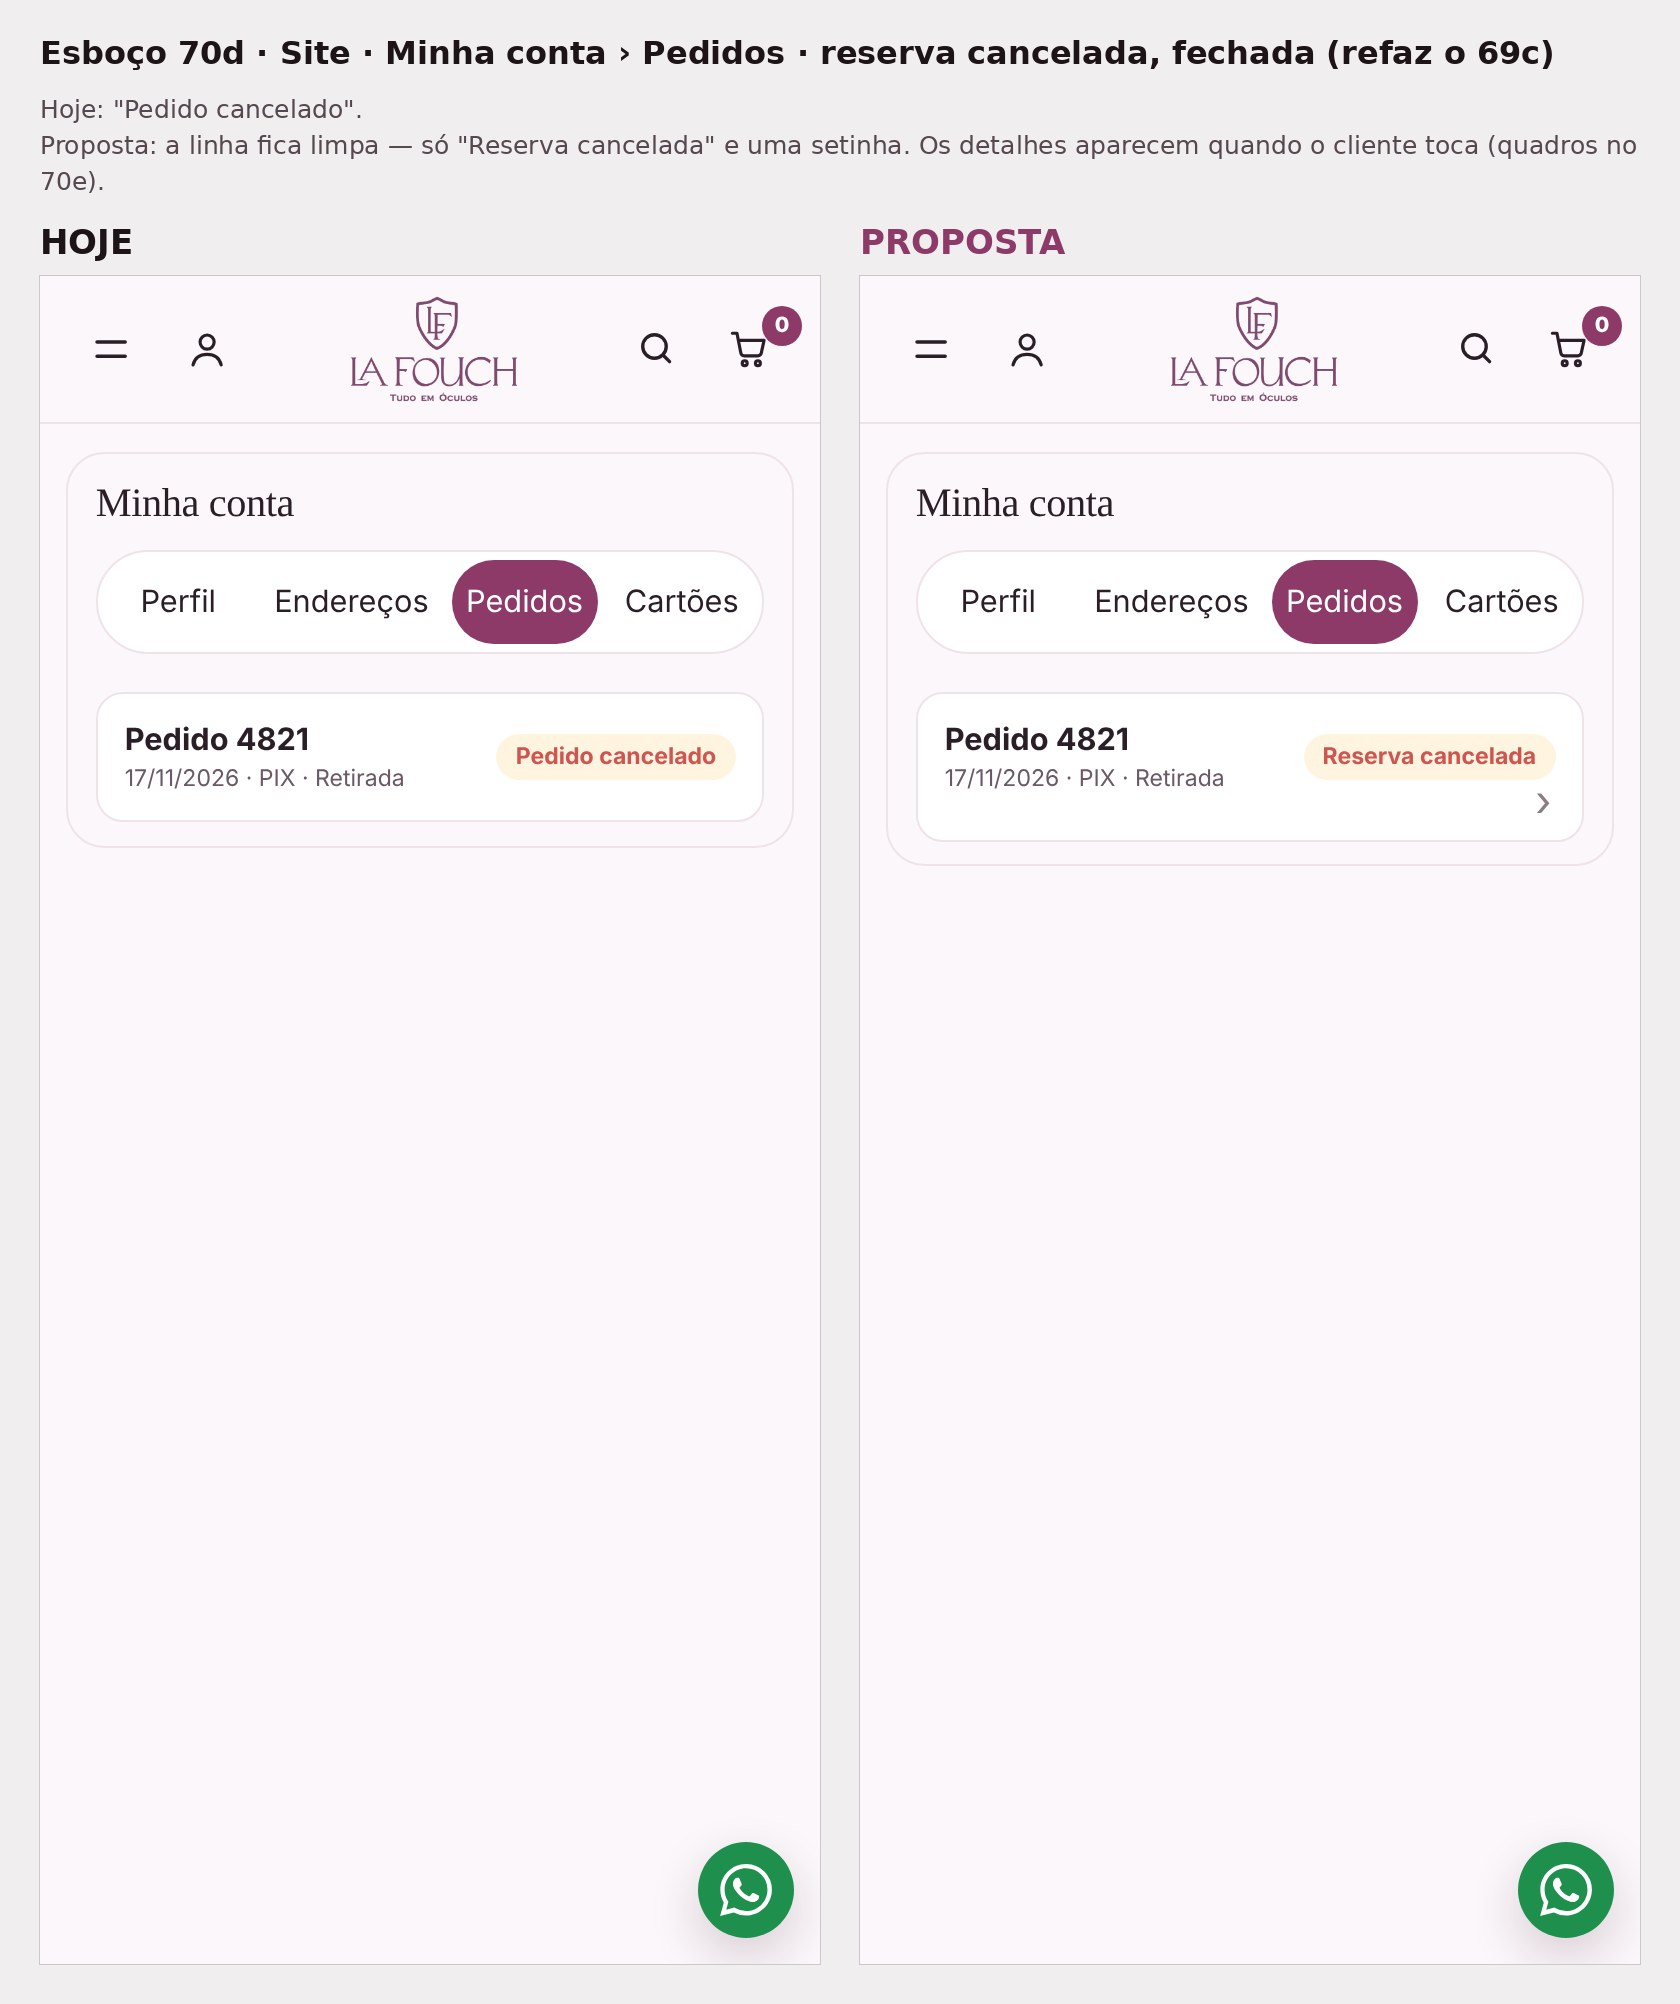
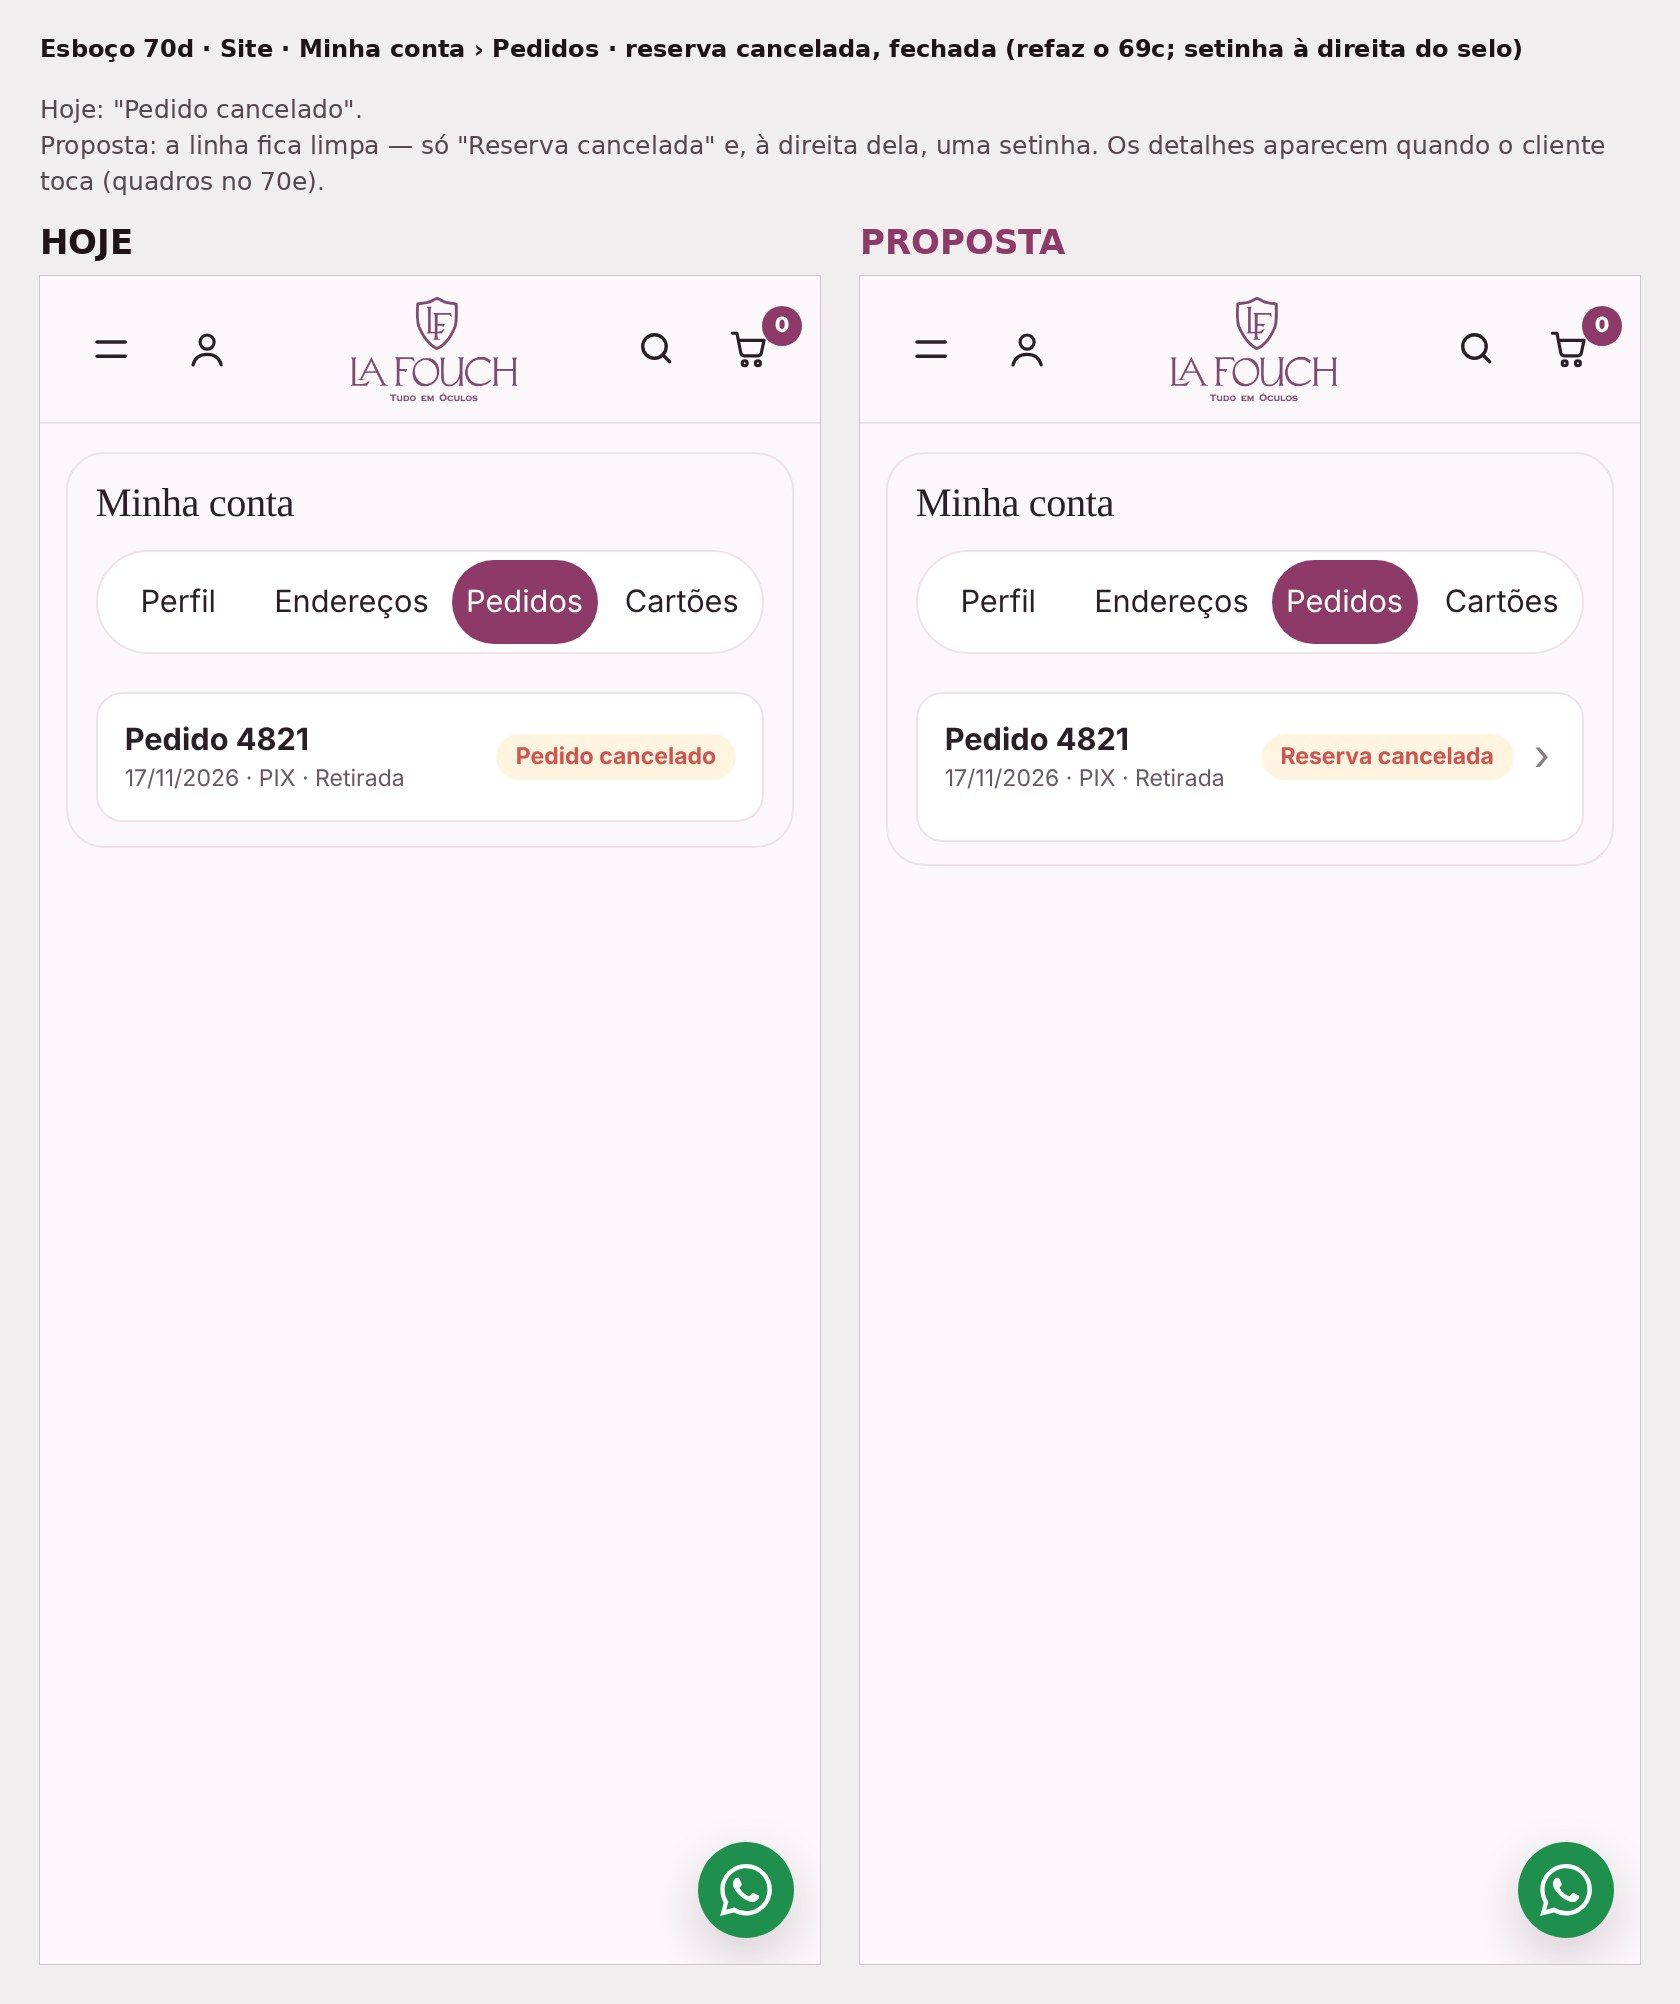
Lista viva: 70a–70c aprovados; 70d/70e com a setinha à direita do selo
Claude-Session: https://claude.ai/code/session_01Vj5GPR2QjandaFr6ascRKC

diff --git a/work/s403/esb6.py b/work/s403/esb6.py
@@ -1,0 +1,47 @@
+# S403 · 70d/70e refeitos (17/11 11:03: setinha à direita do selo) — base: esboços 70a–70e (pedido do dono 17/11 10:57): nome embaixo de "Minha conta" para todos; menu do VIP sem perder "Meus pedidos";
+# reserva do VIP sem a linha que tira a atenção; reserva cancelada que abre para baixo (quadros da animação). Nada implementado.
+E=open('esb2.py').read();exec(E[:E.index('with sync_'+'playwright() as pw')])
+from PIL import Image,ImageDraw
+NOME="""(a)=>{const h=[...document.querySelectorAll('#layer h1,#layer h2,#layer h3')].find(e=>/Minha conta/.test(e.textContent));const p=document.createElement('p');p.style.cssText='margin:-4px 0 14px;font:500 14px Inter,system-ui,sans-serif;color:#6b5f66';p.innerHTML=a[0]+(a[1]?'<span style="color:#a9854a;margin:0 6px">·</span><span style="color:#8a6a33;font-weight:600">✦ Cliente VIP</span>':'');const par=h.parentNode;if(getComputedStyle(par).display.includes('flex'))par.parentNode.insertBefore(p,par.nextSibling);else h.parentNode.insertBefore(p,h.nextSibling)}"""
+COMUM={'ok':True,'guardados':0,'indicacoes':0,'nome':'María González','cupons':[{'cod':'LF-7K2M','tipo':'px','pct':10,'estado':'ok','fim':1805000000000,'usado':False,'nome':'María González','max':1}]}
+ABRE="()=>{document.querySelector('.top .ib').click()}"
+MV="""()=>{const v=document.getElementById('dav');v.style.boxShadow='0 0 0 2px #fbf7fa,0 0 0 3.5px #b8935a';document.getElementById('dacn').innerHTML='Olá, María <em style="display:inline!important;font:600 13px Inter,system-ui,sans-serif;font-style:normal;color:#8a6a33;margin-left:6px;vertical-align:1px">✦ Cliente VIP</em>'}"""
+R3="""()=>{const c=document.getElementById('cdx');c.innerHTML='<span><em style="font-style:normal;color:#a9854a;margin-right:6px">✦</em>Reserva VIP até</span><span class="zk"><b>13:40</b></span>';const f=c.nextElementSibling;if(f&&f.classList.contains('zf'))f.remove()}"""
+CAN="""(k)=>{const e=document.querySelector('[data-id=kitped1]');const w=document.createTreeWalker(e,NodeFilter.SHOW_TEXT);let n;while(n=w.nextNode()){if(/Pedido cancelado/.test(n.nodeValue))n.nodeValue=n.nodeValue.replace('Pedido cancelado','Reserva cancelada')}
+ e.style.flexWrap='wrap';e.style.position='relative';const d=document.createElement('div');d.style.cssText='flex-basis:100%;overflow:hidden';
+ d.innerHTML='<div style="border-top:1px solid #eee6ea;margin-top:12px;padding-top:10px;font:13.5px/1.55 Inter,system-ui,sans-serif;color:#6b5f66">A reserva terminou antes do pagamento. Nada foi cobrado e as peças voltaram para o site.<div style="margin-top:8px"><a href="#" style="display:inline-flex;align-items:center;min-height:44px;color:#8d3a69;font-weight:600;text-decoration:underline">Ver as peças ›</a></div></div>';
+ e.appendChild(d);const H=d.scrollHeight;const ez=t=>1-Math.pow(1-t,3);d.style.height=(H*ez(k))+'px';d.firstChild.style.opacity=Math.max(0,(k-.25)/.75);d.firstChild.style.transform='translateY('+(-8*(1-ez(k)))+'px)';
+ let pl=null;const w2=document.createTreeWalker(e,NodeFilter.SHOW_TEXT);while(n=w2.nextNode()){if(/Reserva cancelada/.test(n.nodeValue)){pl=n.parentNode;break}}
+ const wr=document.createElement('span');wr.style.cssText='display:inline-flex;align-items:center;gap:8px;flex:none';pl.parentNode.insertBefore(wr,pl);wr.appendChild(pl);
+ const ch=document.createElement('span');ch.textContent='›';ch.style.cssText='display:inline-block;width:14px;text-align:center;font:22px/1 Inter,system-ui,sans-serif;color:#8a7d84;transform:rotate('+(90*ez(k))+'deg)';wr.appendChild(ch)}"""
+def par2(nome,abre,depois,H=844,prep=None):
+    res=[]
+    for k in (0,1):
+        b,pg,w=abre();pg.add_style_tag(content=NOAN+CSS);w(300)
+        if prep: pg.evaluate(prep);w(700)
+        if k:
+            for d in depois: pg.evaluate(d[0],d[1]) if isinstance(d,tuple) else pg.evaluate(d);w(400)
+        pg.set_viewport_size({'width':390,'height':H});w(400);res.append(comum.olho(pg));pg.screenshot(path=T+nome+('_p' if k else '_h')+'.png');b.close()
+    print(nome,'falhas novas:',sorted(res[1]-res[0])[:4])
+def quadros(pw,ks):
+    fs=[]
+    for i,k in enumerate(ks):
+        b,pg,w=pago.abre(pw,'pedidos','cancelado');pg.add_style_tag(content=NOAN+CSS);w(300);pg.evaluate(CAN,k);w(300)
+        r=pg.evaluate("()=>{const e=document.querySelector('[data-id=kitped1]').getBoundingClientRect();return [e.left,e.top,e.width,e.height]}")
+        f=T+'q%d.png'%i;pg.screenshot(path=f,clip={'x':0,'y':r[1]-14,'width':390,'height':240});fs.append(f)
+        if k==1: o=comum.olho(pg)
+        if k==0: o0=comum.olho(pg)
+        b.close()
+    print('quadros falhas novas (aberto vs fechado):',sorted(o-o0)[:4]);return fs
+with sync_playwright() as pw:
+    par2('kc',lambda:pago.abre(pw,'pedidos','cancelado'),[(CAN,0)],844)
+    Q=quadros(pw,[0,.35,.7,1])
+P('70d-site-pedidos-reserva-cancelada.jpg','Esboço 70d · Site · Minha conta › Pedidos · reserva cancelada, fechada (refaz o 69c; setinha à direita do selo)',['Hoje: "Pedido cancelado".','Proposta: a linha fica limpa — só "Reserva cancelada" e, à direita dela, uma setinha. Os detalhes aparecem quando o cliente toca (quadros no 70e).'],T+'kc_h.png',T+'kc_p.png')
+# 70e: quadros da animação lado a lado (sem GIF)
+ims=[Image.open(f).convert('RGB') for f in Q];w,h=ims[0].size;g=30;S=Image.new('RGB',(g+len(ims)*(w+g),h+250),'#f1eef0');d=ImageDraw.Draw(S)
+d.text((g,26),'Esboço 70e · Site · Pedidos · tocar na reserva cancelada abre para baixo',font=comum.F(34,True),fill='#1d1418')
+d.text((g,80),'Quadros a 0 · 0,12 · 0,24 · 0,35 s. A caixa cresce com uma curva suave (começa rápido e desacelera, como no iPhone); o texto aparece',font=comum.F(22),fill='#55484f')
+d.text((g,110),'devagar, descendo 8 px, e a setinha gira para baixo. Tocar de novo fecha do mesmo jeito. Quem pediu menos movimento no aparelho vê abrir sem animação.',font=comum.F(22),fill='#55484f')
+for i,(im,r) in enumerate(zip(ims,['FECHADO','ABRINDO','QUASE','ABERTO'])):
+    x=g+i*(w+g);d.text((x,170),r,font=comum.F(26,True),fill='#8d3a69' if i==3 else '#1d1418');S.paste(im,(x,214));d.rectangle([x-1,213,x+w,214+h],outline='#cfc6cb')
+S.save(comum.OUT+'70e-site-pedidos-reserva-cancelada-abrindo.jpg',quality=88);print(S.size)

diff --git a/docs/FALTA-APROVAR-15-11.md b/docs/FALTA-APROVAR-15-11.md
@@ -376,3 +376,4 @@ Não são esquecimento (estavam na lista, parados de propósito ou por ordem do 
 - 17/11 10:55 — ESBOÇOS ENVIADOS (work/s403/esb3.py), ESPERANDO decisão; nada implementado: 69a Minha conta com a linha sutil 'nome · ✦ Cliente VIP' (refaz 68a) · 69b pagamento do VIP com reserva de 3 h e horário (refaz 68d; uma reserva por vez; o dono cancela no app se não pago; nenhum e-mail) · 69c Minha conta › Pedidos 'Reserva cancelada' + 'Nada foi cobrado…' (vencida ou cancelada antes de pagar = sem e-mail; 63b só para pedido pago).
 - 17/11 10:50 — DONO perguntou como fica no menu → ESBOÇO 69d enviado (work/s403/esb4.py), ESPERANDO: na entrada da conta do menu, fio dourado em volta da letra e '✦ Cliente VIP · Minha conta ›' (VIP em dourado); sem entrada nova. Nada implementado.
 - 17/11 10:57 — DONO: nome do cliente embaixo de 'Minha conta' para TODOS (sem selo para quem não é VIP); 69d perde 'Meus pedidos' (recusado); 69b a linha VIP tira a atenção (recusado); 69c polui (recusado) → abrir para baixo ao tocar, animação suave tipo Apple. ESBOÇOS 70a (nome para todos) · 70b (menu: '✦ Cliente VIP' ao lado do nome, 'Minha conta · Meus pedidos ›' fica) · 70c (pagamento: '✦ Reserva VIP até 13:40' na própria linha, sem linha extra) · 70d (pedido 'Reserva cancelada' fechado, com setinha) · 70e (quadros da animação: ~0,35 s, desacelera, texto aparece descendo 8 px, setinha gira; sem animação para quem pediu menos movimento) enviados, ESPERANDO; nada implementado. 69a continua valendo para o VIP.
+- 17/11 11:03 — DONO: **70a, 70b e 70c APROVADOS**, esperando 'implementar'. 70d: pediu a setinha à DIREITA do selo 'Reserva cancelada' → 70d e 70e refeitos (work/s403/esb6.py) e enviados, ESPERANDO; nada implementado.
